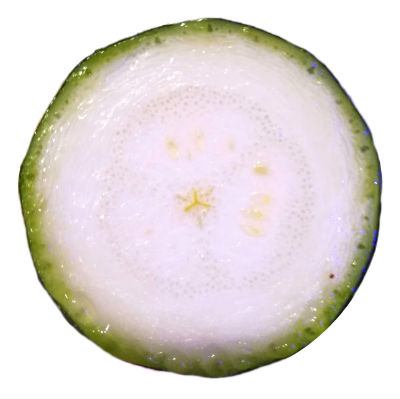
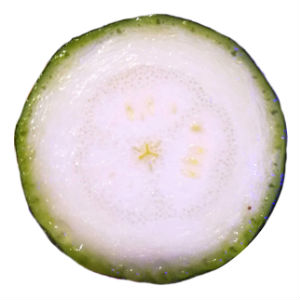
readme pic

diff --git a/README.md b/README.md
@@ -1,10 +1,10 @@
-# Courgette Framework - Bringing sanity to test automation with this Cucumber Protractor Runner
+# Courgette Framework - Bringing sanity to test automation with Selenium
 
 This project was formerly known as Cuketractor (formerly cucumber-protractor on npm)
 
 [![Build Status](https://travis-ci.org/canvaspixels/courgette.svg?branch=master)](https://travis-ci.org/canvaspixels/courgette)
 
-![courgette](https://raw.githubusercontent.com/canvaspixels/courgette/master/courgette.jpg?v=1)
+![courgette](https://raw.githubusercontent.com/canvaspixels/courgette/master/courgette.jpg?v=2)
 
 ## Courgette gives you:
 
